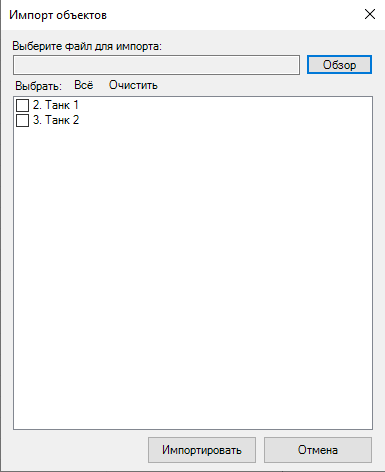
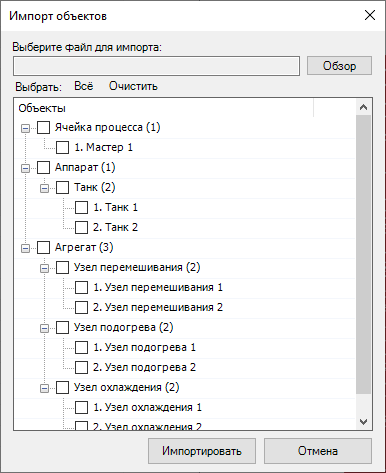
[doc] Updated documentation to latest version

diff --git a/docs/user_manual/ReadMe.md b/docs/user_manual/ReadMe.md
@@ -64,13 +64,18 @@
 #### Редактирование технологических объектов
 + [Общие сведения о технологических объектах](#7-Общие-сведения-о-технологических-объектах)
 + [Описание окна редактора](#71-Описание-окна-редактора)
-    + [Добавление устройств в операции в текстовом виде](#711-Добавление-устройств-в-операции-в-текстовом-виде)
-    + [Добавление устройств в операции в графическом виде](#712-Добавление-устройств-в-операции-в-графическом-виде)
-    + [Добавление устройств в операции в табличном режиме](#713-Добавление-устройств-в-операции-в-табличном-режиме)
-    + [Сохранение результатов редактирования](#714-Сохранение-результатов-редактирования)
-    + [Использование параметров в объекте](#715-Использование-параметров-в-объекте)
+    + [Неопознанные объекты при загрузке описания проекта](#711-Неопознанные-объекты-при-загрузке-описания-проекта)
+    + [Создание объектов](#712-Создание-объектов)
+    + [Копирование, вставка и замена объекта](#713-Копирование-вставка-и-замена-объекта)
+    + [Удаление объекта](#714-Удаление-объекта)
+    + [Перемещение объектов вверх и вниз](#715-Перемещение-объектов-вверх-и-вниз)
+    + [Добавление устройств в операции в текстовом виде](#716-Добавление-устройств-в-операции-в-текстовом-виде)
+    + [Добавление устройств в операции в графическом виде](#717-Добавление-устройств-в-операции-в-графическом-виде)
+    + [Добавление устройств в операции в табличном режиме](#718-Добавление-устройств-в-операции-в-табличном-режиме)
+    + [Сохранение результатов редактирования](#719-Сохранение-результатов-редактирования)
+    + [Использование параметров в объекте](#7110-Использование-параметров-в-объекте)
 + [Использование функциональности базового объекта и базовой операции](#72-Использование-функциональности-базового-объекта-и-базовой-операции)
-    + [Использование базового объекта и дополнительных полей](#721-Использование-базового-объекта-и-дополнительных-полей)
+    + [Привязка базовых объектов друг к другу](#721-Привязка-базовых-объектов-друг-к-другу)
     + [Использование базовой операции](#722-Использование-базовой-операции)
     + [Использование базового шага](#723-Использование-базового-шага)
     + [Использование оборудования базового объекта](#724-Использование-оборудования-базового-объекта)
@@ -829,10 +834,10 @@ F | **IO-Link** автоматический выключатель
 <b>Шаг</b> - часть операции, которой непосредственно не может управлять оператор.
 Таким образом, инженер по автоматизации описывает техпроцесс через описание технологических объектов, их операций и шагов, дополнительных параметров.</p>
 
-Описание нового окна редактора, которое будет являться заменой текущего окна редактора, представлено [тут](NewEditor.md). Новый редактор модифицирует текущее дерево с оглядкой на модель рецептурного производства **S-88**.
+ В данной главе представлено описание для измененного редактора технологических объектов. Для того, чтобы посмотреть изменения относительно старого редактора технологических объектов, нужно обратиться к [документации](NewEditor.md). Новый редактор модифицирует текущее дерево с оглядкой на модель рецептурного производства **S-88**.
 
 ### 7.1 Описание окна редактора ###
-<p align="justify">Вызвать редактор можно через меню <strong>EasyEplanner->Редактировать технологические объекты</strong>. Все объекты представляются в иерархической древовидной структуре. Первый уровень – проект, второй – технологические объекты (<em>аппарат, агрегат</em>), третий – свойства технологических объектов.</p>
+<p align="justify">Вызвать редактор можно через меню <strong>EasyEplanner->Редактировать технологические объекты</strong>. Все объекты представляются в иерархической древовидной структуре S88. </p>
 
 <p align="center"><img src="images/techobject_descr.png"></p>
 
@@ -865,6 +870,7 @@ F | **IO-Link** автоматический выключатель
 * копирование узла – **CTR + C**,
 * вставка узла – **CTR + V**, при этом надо находиться на родительском узле, куда мы вставляем скопированный элемент.
 * вставка узла – **CTR + B**, необходимо находиться на узле, который хотим заменить ранее скопированным,
+* вырезка узла - **CTR + X**, необходимо находиться в узле, который надо вырезать. Работает только для неопознанных объектов.
 * перемещение узла вверх – **Shift + Up**,
 * перемещение узла вниз – **Shift + Down**.
 При копировании – вставке/замене объекта копируются все поля исходного объекта необходимо учитывать следующие нюансы:
@@ -889,7 +895,54 @@ F | **IO-Link** автоматический выключатель
 8. Группы DI -> DO - **DI**, **DO**, **SB**;
 9. Группы AI -> AO - **AI**, **AO**, **M**.
 
-#### 7.1.1 Добавление устройств в операции в текстовом виде ####
+#### 7.1.1 Неопознанные объекты при загрузке описания проекта ####
+<p align="justify">Если базовый объект будет не распознан системой, добавляемый при загрузке объект будет добавлен в группу "<em>Неопознанные объекты</em>". Пример на рисунке ниже.</p>
+
+<p align="center"><img src="images/NewEditor/unidentifiedObject.jpg"></p>
+
+<p align="center"><b>Рисунок</b> - <i>Неопознанные объекты</i></p>
+
+<p align="justify">Неопознанный объект может им и оставаться. Но над ним нельзя выполнять никаких действий, кроме как: "<b>Удалить</b>", "<b>Вырезать</b> и "<b>Редактировать</b>". Если не переносить базовый объект в другие объекты, то он будет сохраняться как неопознанный объект. То есть, этот объект остается объектом, но его нельзя никуда копировать (только через вырезку) и новые неопознанные объекты также нельзя добавлять.</p>
+
+<p align="justify">Вырезать объект можно с помощью сочетания клавиш <b>Ctrl + X</b>. После вырезки, объект станет неактивным (<em>будет выделен серым цветом и его нельзя будет выделить</em>). Для того, чтобы отменить вырезку, нужно нажать клавишу <b>Esc</b> при любом активном элементе дерева.</p>
+
+<p align="center"><img src="images/NewEditor/unidentifiedDisabledObject.jpg"></p>
+
+<p align="center"><b>Рисунок</b> - <i>Неопознанные объекты</i></p>
+
+<p align="justify">Для того, чтобы вставить вырезанный объект, необходимо выбрать место, куда его вставить и нажать сочетание клавиш <b>Ctrl + V</b>. С точки зрения программы, будет перенос объекта из одного места в другое, и назначение этому объекту базового объекта в который он был перенесен. Глобальный номер объекта не изменится.</p>
+
+<p align="center"><img src="images/NewEditor/unidentifiedObjectAfterInsert.jpg"></p>
+
+<p align="center"><b>Рисунок</b> - <i>Перенесенный объект</i></p>
+
+<p align="justify">Если нужно перенести объект в базовый объект, которого ещё нет, то нужно нажать сочетание клавиш <b>Ctrl + V</b> на элементе дерева выше (<em>например, если есть объект S88, то нажимаем на Агрегат, Аппарат</em>). Если же нет даже объектов S88, то нажимаем на корень проекта (<em>где название проекта</em>) и нажимаем нужное сочетание клавиш. Когда система не может определить, куда перенести объект, будет вызвано окно (<em>по аналогии с созданием нового объекта</em>), где нужно выбрать, куда переносится неопознанный объект.</p>
+
+#### 7.1.2 Создание объектов ####
+<p align="justify">В редакторе есть градация с возможностью создания конкретного базового объекта. В новом редакторе существует три варианта создания объекта: из корня дерева, из корня объекта S-88, из корня базового объекта.</p>
+
+<p align="center"><img src="images/NewEditor/treeRootsExample.jpg"></p>
+
+<p align="center"><b>Рисунок</b> - <i>Обозначение корней элементов</i></p>
+
+<p align="justify">При создании объектов из первых двух корней (<i>корень дерева и корень объекта S-88</i>), будет вызвано диалоговое окно (<i>см. рисунок ниже</i>). В зависимости от того, из какого корня было оно вызвано, будут активированы или деактивированы возможные варианты. Подробности описаны ниже.</p>
+
+<p align="center"><img src="images/NewEditor/createNewObject.jpg"></p>
+
+<p align="center"><b>Рисунок</b> - <i>Создание нового объекта</i></p>
+
+<p align="justify">Например, если создание объекта идет из корня дерева, то все списки в окне создания объекта будут доступны. При создании объекта из корня объекта S-88, так как объект уже известен, то будет заблокирован выбор объекта S-88, а при создании объекта из корня базового объекта, сразу будет создан соответствующий конкретный объект базового объекта без каких либо окон.</p>
+
+#### 7.1.3 Копирование, вставка и замена объекта ####
+<p align="justify">Можно копировать любой объект, но вставить и заменить можно только объект с одинаковым базовым объектом. То есть, мы можем заменить <b>Танк</b> на <b>Танк</b>, но не можем <b>Танк</b> на <b>Линию</b>. Внутри объектов ситуация не изменилась. Мы можем скопировать операцию <b>Танка</b> в операции <b>Линии</b>, но базовая операция должна быть переназначена пользователем.</p>
+
+#### 7.1.4 Удаление объекта ####
+<p align="justify">Нужно учитывать, что при удалении объекта, его глобальный номер будет удален, а, следовательно, все объекты будут сдвинуты относительно предыдущего их положения.</p>
+
+#### 7.1.5 Перемещение объектов вверх и вниз ####
+<p align="justify">Перемещение объектов вверх и вниз изменяет из глобальные номера путем замены. Объект <b>Х</b> меняется на <b>У</b> и наоборот. Но так как в редакторе мы пользуемся локальными индексами и объекты сгруппированы, то перемещать объект вверх и вниз можно только в пределах одной группы. Выход в другие группы невозможен.</p>
+
+#### 7.1.6 Добавление устройств в операции в текстовом виде ####
 <p align="justify">Необходимо включить режим редактирования (<em>иконка синего карандаша вверху окна редактора</em>) и выбрать (<em>выделить</em>) нужный узел.</p>
 
 <p align="center"><img src="images/select_node.png"></p>
@@ -904,7 +957,7 @@ F | **IO-Link** автоматический выключатель
 
 <p align="justify">Последовательно через пробел записать требуемые устройства (<em>как на рисунке с включенным режимом редактирования</em>) и завершить ввод нажав <b>Enter</b> (<em><b>Esc</b> - отмена изменений</em>), получив измененный результат и состояние строки, как на рисунке с примером выбора узла.</p>
 
-#### 7.1.2 Добавление устройств в операции в графическом виде ####
+#### 7.1.7 Добавление устройств в операции в графическом виде ####
 <p align="justify">Необходимо перейти в данный режим, нажав следующие кнопки:</p>
 
 <p align="center"><img src="images/edit_buttons.png"></p>
@@ -925,7 +978,7 @@ F | **IO-Link** автоматический выключатель
 
 <p align="justify">Путем клика на необходимых устройствах, добавляем или удаляем их из шага. После завершения редактирования шага переходим к следующему (<em>клик по требуемому узлу</em>).</p>
 
-#### 7.1.3 Добавление устройств в операции в табличном режиме ####
+#### 7.1.8 Добавление устройств в операции в табличном режиме ####
 <p align="justify">Необходимо вызвать окно с устройствами, вызвав его из меню (<em>смотри главу 1</em>), или же, если включен режим редактирования (<em>смотри предыдущий подпункт</em>), то окно вызовется само при выборе узла для редактирования.</p>
 
 <p align="center"><img src="images/edit_selected_node_table_mode.png"></p>
@@ -934,14 +987,14 @@ F | **IO-Link** автоматический выключатель
 
 <p align="justify">Путем отметки (<em>снятия отметки</em>) соответствующие устройства добавляются (<em>удаляются</em>) из действия.</p>
 
-#### 7.1.4 Сохранение результатов редактирования ####
+#### 7.1.9 Сохранение результатов редактирования ####
 <p align="justify">Результаты редактирования сохраняются при закрытии проекта (<em>как при закрытии проекта отдельно, так и при закрытии окна EPlan с включенным проектом</em>), а так же с помощью кнопки "Синхронизация и сохранение" (<em>сине-зеленый круг справа на картинке</em>).</p>
 
 <p align="center"><img src="images/edit_buttons.png"></p>
 
 <p align="center"><b>Рисунок</b> - <i>Кнопка сохранения и синхронизации</i></p>
 
-#### 7.1.5 Использование параметров в объекте ####
+#### 7.1.10 Использование параметров в объекте ####
 
 <p align="justify">В технологическом объекте задаются параметры объекта.</p>
 
@@ -975,36 +1028,21 @@ F | **IO-Link** автоматический выключатель
 
 <p align="center"><b>Рисунок</b> - <i>Пример отображения параметров в операции</i></p>
 
+
 ### 7.2 Использование функциональности базового объекта и базовой операции ####
 
 <p align="justify">Надстройка хранит описание базовой функциональности в файле. Файл хранится в папке с LUA файлами и заполняется по определенному шаблону (правила описания внутри файла, вначале). Имя файла - <code>sys_base_objects_description.lua</code>. Информация загружается из файла один раз, при запуске EPLAN. Для того, чтобы загрузить новые данные (после изменения файла), необходимо перезапустить EPLAN. При отсутствии этого файла в системе (был случайно удален или др.) этот файл будет создан заново со стандартным описанием (в теневом хранилище) и будет выведена ошибка о том, что файл не найден. Для исправления этой ошибки необходимо перенести созданный файл-шаблон из теневого хранилища в папку, где хранится надстройка, заполнить его и перезагрузить EPLAN.</p>
 
-#### 7.2.1 Использование базового объекта и дополнительных полей ####
-<p align="justify">Для установки базового объекта, необходимо использовать редактор технологических объектов с включенным режимом редактирования. 
-Что бы выбрать базовый объект, нужно два раза нажать на пустую строку напротив названия технологического объекта (<em>прим., Танк, Гребенка, Мастер</em>).</p>
+<p align="justify">Базовый объект выбирается автоматически при создании объекта. Базовый объект описывает, какие базовые операции, оборудование и др. компоненты будет содержать объект помимо своего основного функционала. В зависимости от базового объекта, к объекту могут быть привязаны те или иные объекты. Для этих целей, у объекта есть поле <code>Привязанные агрегаты</code>. Для объектов, к которым нельзя привязать другой объект, поле <code>Привязанные агрегаты</code> убрано.</p>
 
-<p align="center"><img src="images/set_base_object.png"></p>
+#### 7.2.1 Привязка базовых объектов друг к другу ####
+<p align="justify">Привязка агрегатов к аппаратам (<i>хотя, линии у нас относятся к агрегатам, но мы можем привязывать к ним другие агрегаты</i>) теперь выполняется не вручную, а может быть настроена также, как и ограничения (<i>окно "Операции" в режиме редактирования</i>). Пример настройки привязки объектов представлен ниже.</p>
 
-<p align="center"><b>Рисунок</b> - <i>Выбор базового объекта</i></p>
+<p align="center"><img src="images/NewEditor/attachObjects.jpg"></p>
 
-<p align="justify">В технологическом объекте существуют 2 поля: <code>S88Level</code>, <code>Привязанные агрегаты</code>. Поле <code>Привязанные агрегаты</code> - указывает глобальные номера объектов,
-которые привязаны к этому объекту (<em>прим., к Танку 1 привязан Узел перемешивания 1, см. рисунок</em>).
-Поле <code>S88Level</code> - указывает уровень объекта по S88. Стандартное значение поля - <code>1</code> (<em>аппарат</em>), <code>2</code> (<em>агрегат</em>). 
-Если объект является агрегатом, то к нему не могут быть привязаны устройства и поле <code>Привязанные агрегаты</code> заблокируется для редактирования.</p>
+<p align="center"><b>Рисунок</b> - <i>Новая привязка объектов</i></p>
 
-<p align="center"><img src="images/work_with_fields_s88_ao.jpg"></p>
-
-<p align="center"><b>Рисунок</b> - <i>Работа с полями S88 и Привязанные агрегаты</i></p>
-
-Поле `привязанные агрегаты` позволяет указывать, какие агрегаты привязаны к аппарату. Это позволит использовать свойства привязанного агрегата в аппарате. Например, если мы привяжем узел охлаждения к танку, то сможем указывать во всех базовых операциях (кроме мойки), будем ли мы использовать заданный узел охлаждения при работе операций танка.
-
-##### Примечание:
-
-* Базовый объект выбирается, что бы генерировался файл prg.lua
-* Если привязанных устройств больше 1, то привязка осуществляется через _пробел_ (_прим., `number1 number2 numberN`_).
-* Поле `S88Level` устанавливается автоматически, в зависимости от выбранного базового объекта и закрыто для редактирования.
-* При вводе в поле `привязанные агрегаты` некорректных значений, эти значения будут игнорироваться.
-Во избежание проблем, **строго указывать согласно описанию выше**.
+<b>Примечание:</b> подчеркнутые номера - это глобальные номера объектов. Руками их менять нельзя. Объекты нужно привязывать через графический интерфейс. Ровно как и ограничения.
 
 #### 7.2.2 Использование базовой операции ####
 <p align="justify">Выбор базовой операции в базовом объекте осуществляется таким же образом, с тем лишь исключением, что выбирать нужно напротив названия операции.</p>
@@ -1650,7 +1688,7 @@ F | **IO-Link** автоматический выключатель
 
 <p align="center"><b>Рисунок</b> - <i>Местонахождение ограничений</i></p>
 
-<p align="justify">Ограничения представляются парами вида {N, M}, где <b>N</b> – номер объекта, в котором проверяем на включенность операцию <b>M</b>. Ограничения проверяются перед включением операции, в которой прописываются пары. «Ограничения внутри объекта» предназначены для описания недоступных операций внутри объекта. К примеру, для операции «Наполнение» можем указать операцию «Сквашивание», нам не нужно проверять «Сквашивание» во всех других объектах. «Общие ограничения» описывают недоступные операции с другими объектами. В поле «Ограничения на последующие операции» указываются операции объекта, которые нельзя включить после текущей, например, после операции «Выдача» нельзя включить «Наполнение». Редактировать ограничения можно вручную или через окно со списком операций. Его можно вызвать из меню <b>"EasyEplanner" -> "Операции"</b> (<em>смотри пример в главе 1</em>). Если окно для редактирования технологических объектов находится в режиме редактирования, то при переходе на строку с ограничениями у узлов дерева с операциями появятся _CheckBox_ для выбора необходимых ограничений.</p>
+<p align="justify">Ограничения представляются парами вида {N, M}, где <b>N</b> – номер объекта, в котором проверяем на включенность операцию <b>M</b> Только надо учитывать, что N - глобальный номер объекта, который для пользователя недоступен (<em>осталось от старого редактора</em>). Ограничения проверяются перед включением операции, в которой прописываются пары. «Ограничения внутри объекта» предназначены для описания недоступных операций внутри объекта. К примеру, для операции «Наполнение» можем указать операцию «Сквашивание», нам не нужно проверять «Сквашивание» во всех других объектах. «Общие ограничения» описывают недоступные операции с другими объектами. В поле «Ограничения на последующие операции» указываются операции объекта, которые нельзя включить после текущей, например, после операции «Выдача» нельзя включить «Наполнение». Редактировать ограничения можно вручную или через окно со списком операций. Его можно вызвать из меню <b>"EasyEplanner" -> "Операции"</b> (<em>смотри пример в главе 1</em>). Если окно для редактирования технологических объектов находится в режиме редактирования, то при переходе на строку с ограничениями у узлов дерева с операциями появятся _CheckBox_ для выбора необходимых ограничений.</p>
 
 <p align="center"><img src="images/selected_restrictions.png"></p>
 
